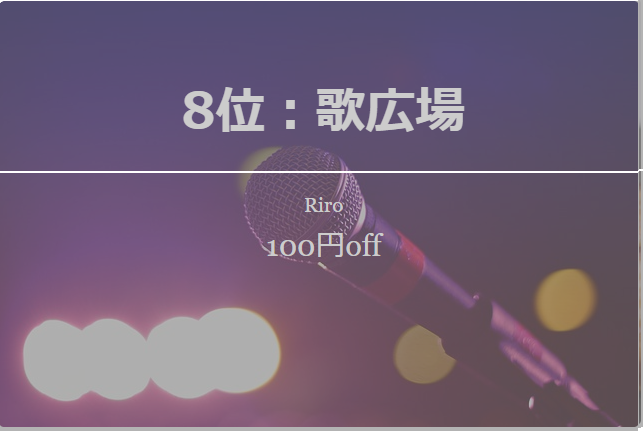
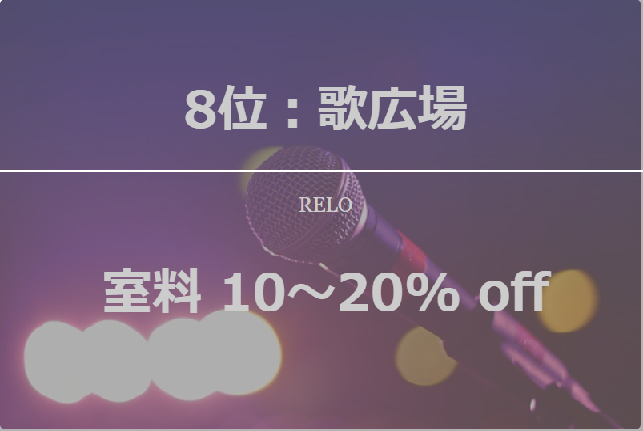
coupon

diff --git a/resources/views/movieprime.blade.php b/resources/views/movieprime.blade.php
@@ -177,8 +177,8 @@
                 <div class="infoLayer">
                     <ul>
                         <li><h3>8位：歌広場</h3></li>
-                        <li><p>Riro</p></li>
-                        <li><p1>100円off</p1></li>
+                        <li><p>RELO</p></li>
+                        <li><h3>室料 10～20% off</h3></li>
                     </ul>
                 </div>
                 <div class="projectInfo">KUAAINA</div>
@@ -186,14 +186,14 @@
             
              <li>
                 <a href="https://www.google.co.jp/search?q=%E6%AD%8C%E3%81%86%E3%82%93%E3%81%A0%E6%9D%91&rlz=1C1GGRV_enJP791JP792&oq=%E6%AD%8C%E3%81%86%E3%82%93%E3%81%A0%E6%9D%91&aqs=chrome..69i57j0l5.6449j0j7&sourceid=chrome&ie=UTF-8"></a>
-                <img data-original="images//gallery/rank/utamura.png" src="img/effects/white.gif" alt="Photo 3" />
+                <img data-original="images//gallery/rank/karaoke4.png" src="img/effects/white.gif" alt="Photo 3" />
 
                 <div class="overLayer"></div>
                 <div class="infoLayer">
                     <ul>
                         <li><h3>9位：歌うんだ村</h3></li>
-                        <li><p>Riro</p></li>
-                        <li><p1>室料10% OFF</p1></li>
+                        <li><p>RELO</p></li>
+                        <li><h3>室料 10% off</h3></li>
                     </ul>
                 </div>
                 <div class="projectInfo">KUAAINA</div>

diff --git a/resources/views/cafe.blade.php b/resources/views/cafe.blade.php
@@ -124,7 +124,7 @@
             
             <li>
                 <a href="https://www.google.co.jp/search?num=30&rlz=1C1GGRV_enJP791JP791&ei=WDVRW7SCGY7N-QacnJLoCQ&q=%E6%B8%A9%E9%87%8E%E8%8F%9C&oq=%E6%B8%A9%E9%87%8E%E8%8F%9C&gs_l=psy-ab.3..0i67k1j0i4i37k1j0i67k1j0j0i4i37k1l3j0i67k1l2j0i4i37k1.13604.14499.0.14733.9.9.0.0.0.0.153.934.2j6.8.0....0...1c.1j4.64.psy-ab..3.6.709...35i39k1j0i4k1j0i131k1j0i4i10k1j0i4i10i42k1j0i10k1.0.cFfKsVOUcq8"></a>
-                <img data-original="images//gallery/pot.jpg" src="img/effects/white.gif" alt="Photo 3" />
+                <img data-original="images//gallery/pot.png" src="img/effects/white.gif" alt="Photo 3" />
 
                 <div class="overLayer"></div>
                 <div class="infoLayer">
@@ -144,7 +144,7 @@
                 <div class="overLayer"></div>
                 <div class="infoLayer">
                     <ul>
-                        <li><h3>8位: Bubby's</h3></li>
+                        <li><h3>Bubby's</h3></li>
                         <li><p>RELO</p></li>
                         <li><h3>100円 off <br>(予約時エントリー必須)</h3></li>
                     </ul>

diff --git a/resources/views/movie.php b/resources/views/movie.php
@@ -4,8 +4,6 @@
     <meta charset="utf-8" />
     <meta content="width=device-width, initial-scale=1" name="viewport" />
     <title>Movie & Karaoke</title>
-    <!-- Bootstrap CSS-->
-    <link rel="stylesheet" href="https://maxcdn.bootstrapcdn.com/bootstrap/3.3.7/css/bootstrap.min.css">
 
     <!-- add styles -->
     <link href="css/least.min.2.css" rel="stylesheet" type="text/css" />
@@ -72,7 +70,7 @@
                     <ul>
                         <li><h3>BIG ECHO</h3></li>
                         <li><p>RELO</p></li>
-                        <li><h3>室料 20～30% off</h3></li>
+                        <li><h3>室料 10～20% off</h3></li>
                     </ul>
                 </div>
                 <div class="projectInfo">CINNABON</div>

diff --git a/app/Http/Controllers/MainController.php b/app/Http/Controllers/MainController.php
@@ -28,6 +28,7 @@ class MainController extends BaseController
     }
     
     public function shootingGame(){
+        
         return view('shooting');
     }
     
